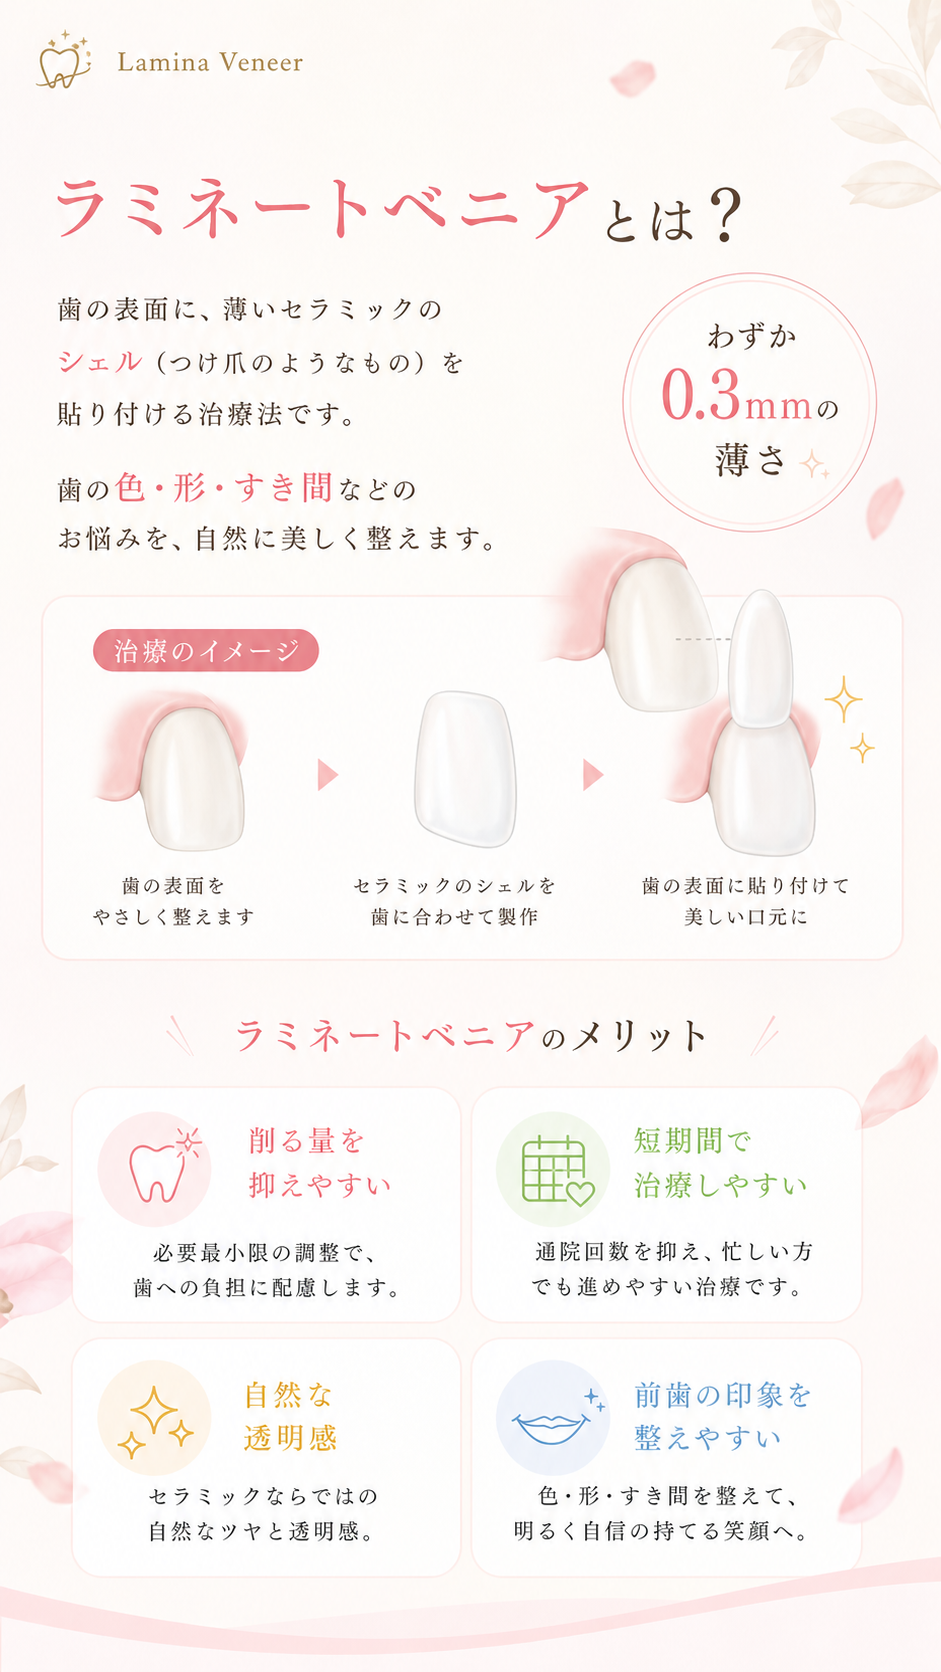
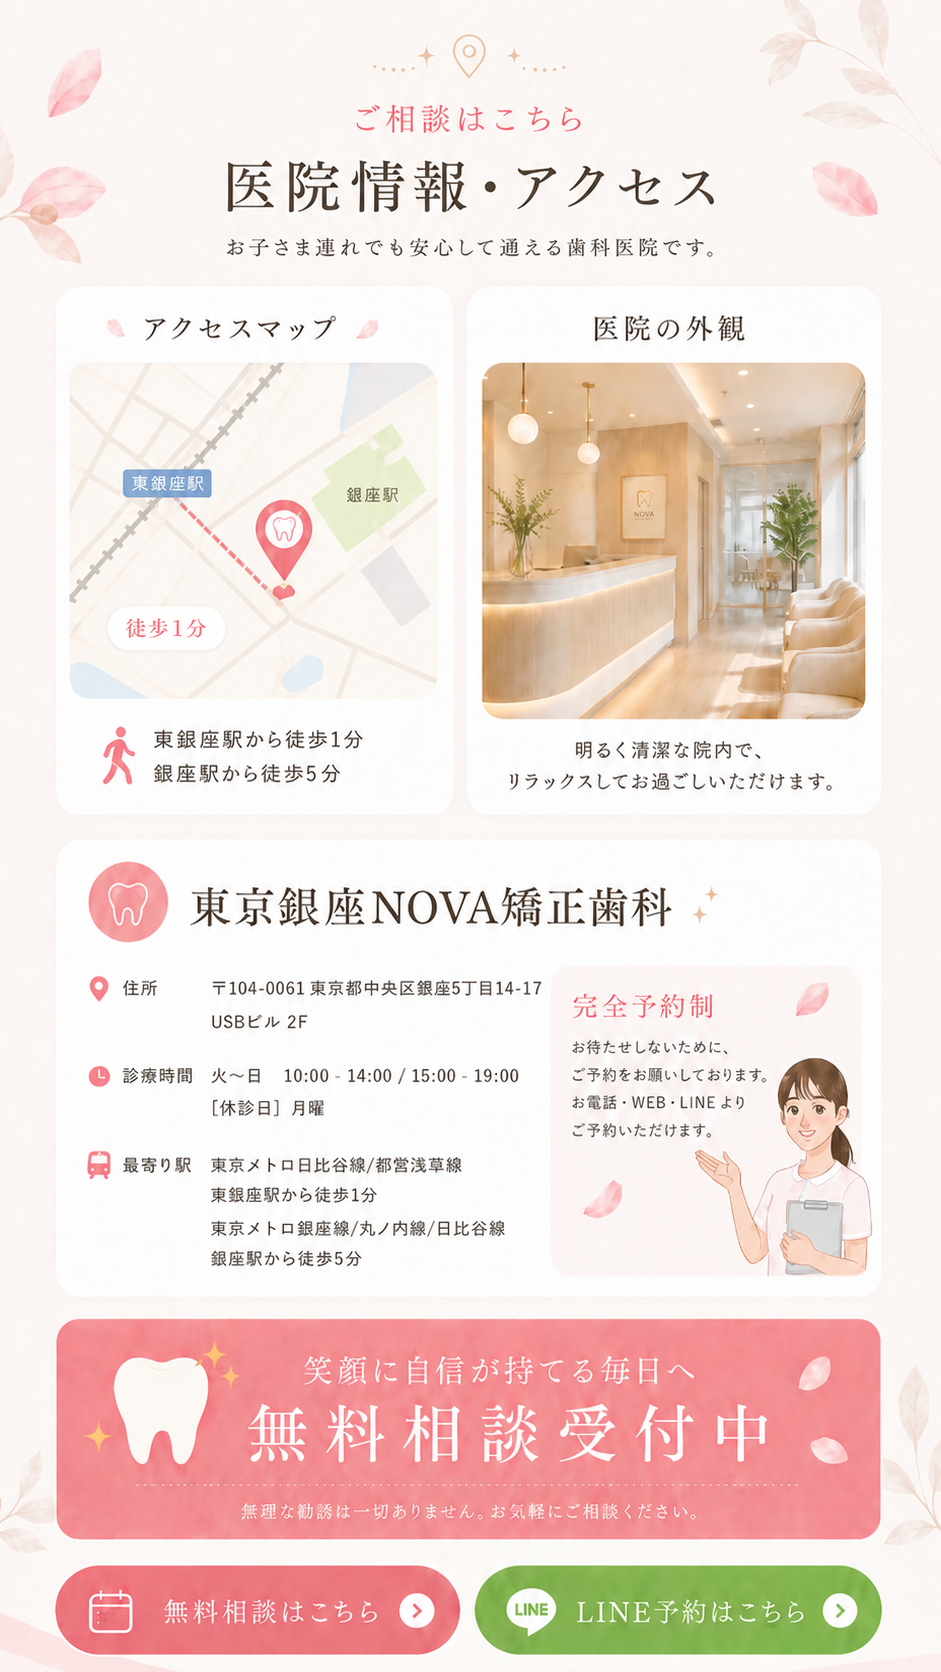
Update access section visuals

diff --git a/index.html b/index.html
@@ -28,8 +28,23 @@
         <img src="assets/images/02-concerns.png" alt="こんなお悩みありませんか" width="941" height="1672">
       </section>
 
-      <section class="lp-panel" aria-label="医院情報と無料相談">
+      <section class="lp-panel" aria-label="医院情報と無料相談" id="access-cta">
         <img src="assets/images/03-access-cta.png" alt="医院情報・アクセスと無料相談受付中" width="941" height="1672">
+        <iframe
+          class="access-map"
+          src="https://www.google.com/maps/embed?pb=!1m18!1m12!1m3!1d3241.242053550095!2d139.76499552679527!3d35.67104148053207!2m3!1f0!2f0!3f0!3m2!1i1024!2i768!4f13.1!3m3!1m2!1s0x60188b3e4d089751%3A0x88572302f9a5de04!2z5p2x5Lqs6YqA5bqnTk9WQeefr-ato-atr-enkQ!5e0!3m2!1sja!2sjp!4v1777804933539!5m2!1sja!2sjp"
+          title="東京銀座NOVA矯正歯科 アクセスマップ"
+          allowfullscreen
+          loading="lazy"
+          referrerpolicy="no-referrer-when-downgrade"
+        ></iframe>
+        <img
+          class="clinic-exterior"
+          src="assets/images/clinic-exterior.jpg"
+          alt="医院の外観"
+          width="5000"
+          height="3333"
+        >
         <a class="hotspot hotspot-consultation image-03" href="https://reservation.stransa.co.jp/2747f44875e502d72cb6ea80e31af1cc/reserve/select-frame?web-menu-id=47272" aria-label="無料相談はこちら"></a>
         <a class="hotspot hotspot-line image-03" href="https://line.me/R/ti/p/@853jpbsf?oat_content=url&ts=04210830" aria-label="LINE予約はこちら"></a>
       </section>
@@ -48,21 +63,13 @@
 
       <section class="lp-panel" aria-label="担当ドクターより">
         <img src="assets/images/07-doctor.png" alt="担当ドクターより" width="941" height="1672">
-        <img
-          class="doctor-portrait"
-          src="assets/images/dr-kanda-junya.jpg"
-          alt="院長 神田淳也"
-          width="1365"
-          height="2048"
-        >
-        <span class="doctor-name" aria-hidden="true">神田淳也</span>
       </section>
 
       <section class="lp-panel" aria-label="治療比較">
         <img src="assets/images/08-comparison.png" alt="どんな悩みに向いている？" width="941" height="1672">
       </section>
 
-      <section class="lp-panel" aria-label="ラミネートベニアの特徴と予約">
+      <section class="lp-panel" aria-label="ラミネートベニアの特徴と予約" id="benefits-cta">
         <img src="assets/images/09-benefits-cta.png" alt="最短2回、自分の笑顔に一目惚れする" width="941" height="1672">
         <a class="hotspot hotspot-consultation image-09" href="https://reservation.stransa.co.jp/2747f44875e502d72cb6ea80e31af1cc/reserve/select-frame?web-menu-id=47272" aria-label="無料相談はこちら"></a>
         <a class="hotspot hotspot-line image-09" href="https://line.me/R/ti/p/@853jpbsf?oat_content=url&ts=04210830" aria-label="LINE予約はこちら"></a>
@@ -70,8 +77,8 @@
 
       <section class="lp-panel" aria-label="無料相談予約" id="consultation">
         <img src="assets/images/10-final-cta.png" alt="まずは無料で相談してみませんか？" width="941" height="1672">
-        <a class="hotspot hotspot-line image-10" href="https://line.me/R/ti/p/@853jpbsf?oat_content=url&ts=04210830" aria-label="LINEで相談する" id="line-reservation"></a>
-        <a class="hotspot hotspot-web image-10" href="https://reservation.stransa.co.jp/2747f44875e502d72cb6ea80e31af1cc/reserve/select-frame?web-menu-id=47272" aria-label="WEB予約する" id="web-reservation"></a>
+        <a class="hotspot hotspot-line image-10" href="https://line.me/R/ti/p/@853jpbsf?oat_content=url&ts=04210830" aria-label="LINEで相談する"></a>
+        <a class="hotspot hotspot-web image-10" href="https://reservation.stransa.co.jp/2747f44875e502d72cb6ea80e31af1cc/reserve/select-frame?web-menu-id=47272" aria-label="WEB予約する"></a>
       </section>
     </main>
   </body>

diff --git a/styles.css b/styles.css
@@ -40,51 +40,30 @@ body {
   user-select: none;
 }
 
-.lp-panel .doctor-portrait {
+.access-map,
+.clinic-exterior {
   position: absolute;
-  left: 52.6%;
-  top: 20.1%;
-  width: 39.5%;
-  height: 44.8%;
-  object-fit: cover;
-  object-position: 51% 24%;
-  border-radius: 0 0 34% 18%;
-  opacity: 0.96;
-  mix-blend-mode: normal;
-  filter: brightness(1.08) saturate(0.9) contrast(0.94);
-  -webkit-mask-image: linear-gradient(
-    90deg,
-    transparent 0%,
-    rgba(0, 0, 0, 0.58) 14%,
-    #000 30%,
-    #000 100%
-  );
-  mask-image: linear-gradient(
-    90deg,
-    transparent 0%,
-    rgba(0, 0, 0, 0.58) 14%,
-    #000 30%,
-    #000 100%
-  );
   z-index: 1;
+  display: block;
+  border: 0;
+  border-radius: 18px;
+  overflow: hidden;
 }
 
-.doctor-name {
-  position: absolute;
-  left: 25.2%;
-  top: 61.9%;
-  min-width: 24%;
-  padding: 0.55% 1.2% 0.9%;
-  background: rgba(255, 253, 250, 0.94);
-  border-radius: 6px;
-  color: #241915;
-  font-family: "Hiragino Mincho ProN", "Yu Mincho", serif;
-  font-size: clamp(22px, 5.2vw, 49px);
-  font-weight: 400;
-  line-height: 1.1;
-  letter-spacing: 0;
-  text-align: center;
-  z-index: 2;
+.access-map {
+  left: 7.35%;
+  top: 21.75%;
+  width: 39.15%;
+  height: 20.1%;
+}
+
+.clinic-exterior {
+  left: 51.3%;
+  top: 21.7%;
+  width: 40.8%;
+  height: 21.35%;
+  object-fit: cover;
+  object-position: 50% 54%;
 }
 
 .hotspot {
@@ -103,45 +82,45 @@ body {
 }
 
 .image-03.hotspot-consultation {
-  left: 5.6%;
-  top: 89.6%;
+  left: 5.8%;
+  top: 93.55%;
   width: 43.4%;
-  height: 5.4%;
+  height: 5.0%;
 }
 
 .image-03.hotspot-line {
-  left: 50.7%;
-  top: 89.6%;
+  left: 50.6%;
+  top: 93.55%;
   width: 43.4%;
-  height: 5.4%;
+  height: 5.0%;
 }
 
 .image-09.hotspot-consultation {
-  left: 4.7%;
-  top: 62.7%;
-  width: 63.8%;
-  height: 7.0%;
+  left: 4.8%;
+  top: 62.5%;
+  width: 62.7%;
+  height: 7.6%;
 }
 
 .image-09.hotspot-line {
-  left: 4.7%;
-  top: 71.7%;
-  width: 63.8%;
-  height: 7.0%;
+  left: 4.8%;
+  top: 71.5%;
+  width: 62.7%;
+  height: 7.6%;
 }
 
 .image-10.hotspot-line {
-  left: 12.7%;
-  top: 57.5%;
-  width: 74.4%;
-  height: 7.4%;
+  left: 12.75%;
+  top: 57.3%;
+  width: 74.5%;
+  height: 7.6%;
 }
 
 .image-10.hotspot-web {
-  left: 12.7%;
+  left: 12.75%;
   top: 66.1%;
-  width: 74.4%;
-  height: 7.4%;
+  width: 74.5%;
+  height: 7.8%;
 }
 
 @media (max-width: 600px) {
